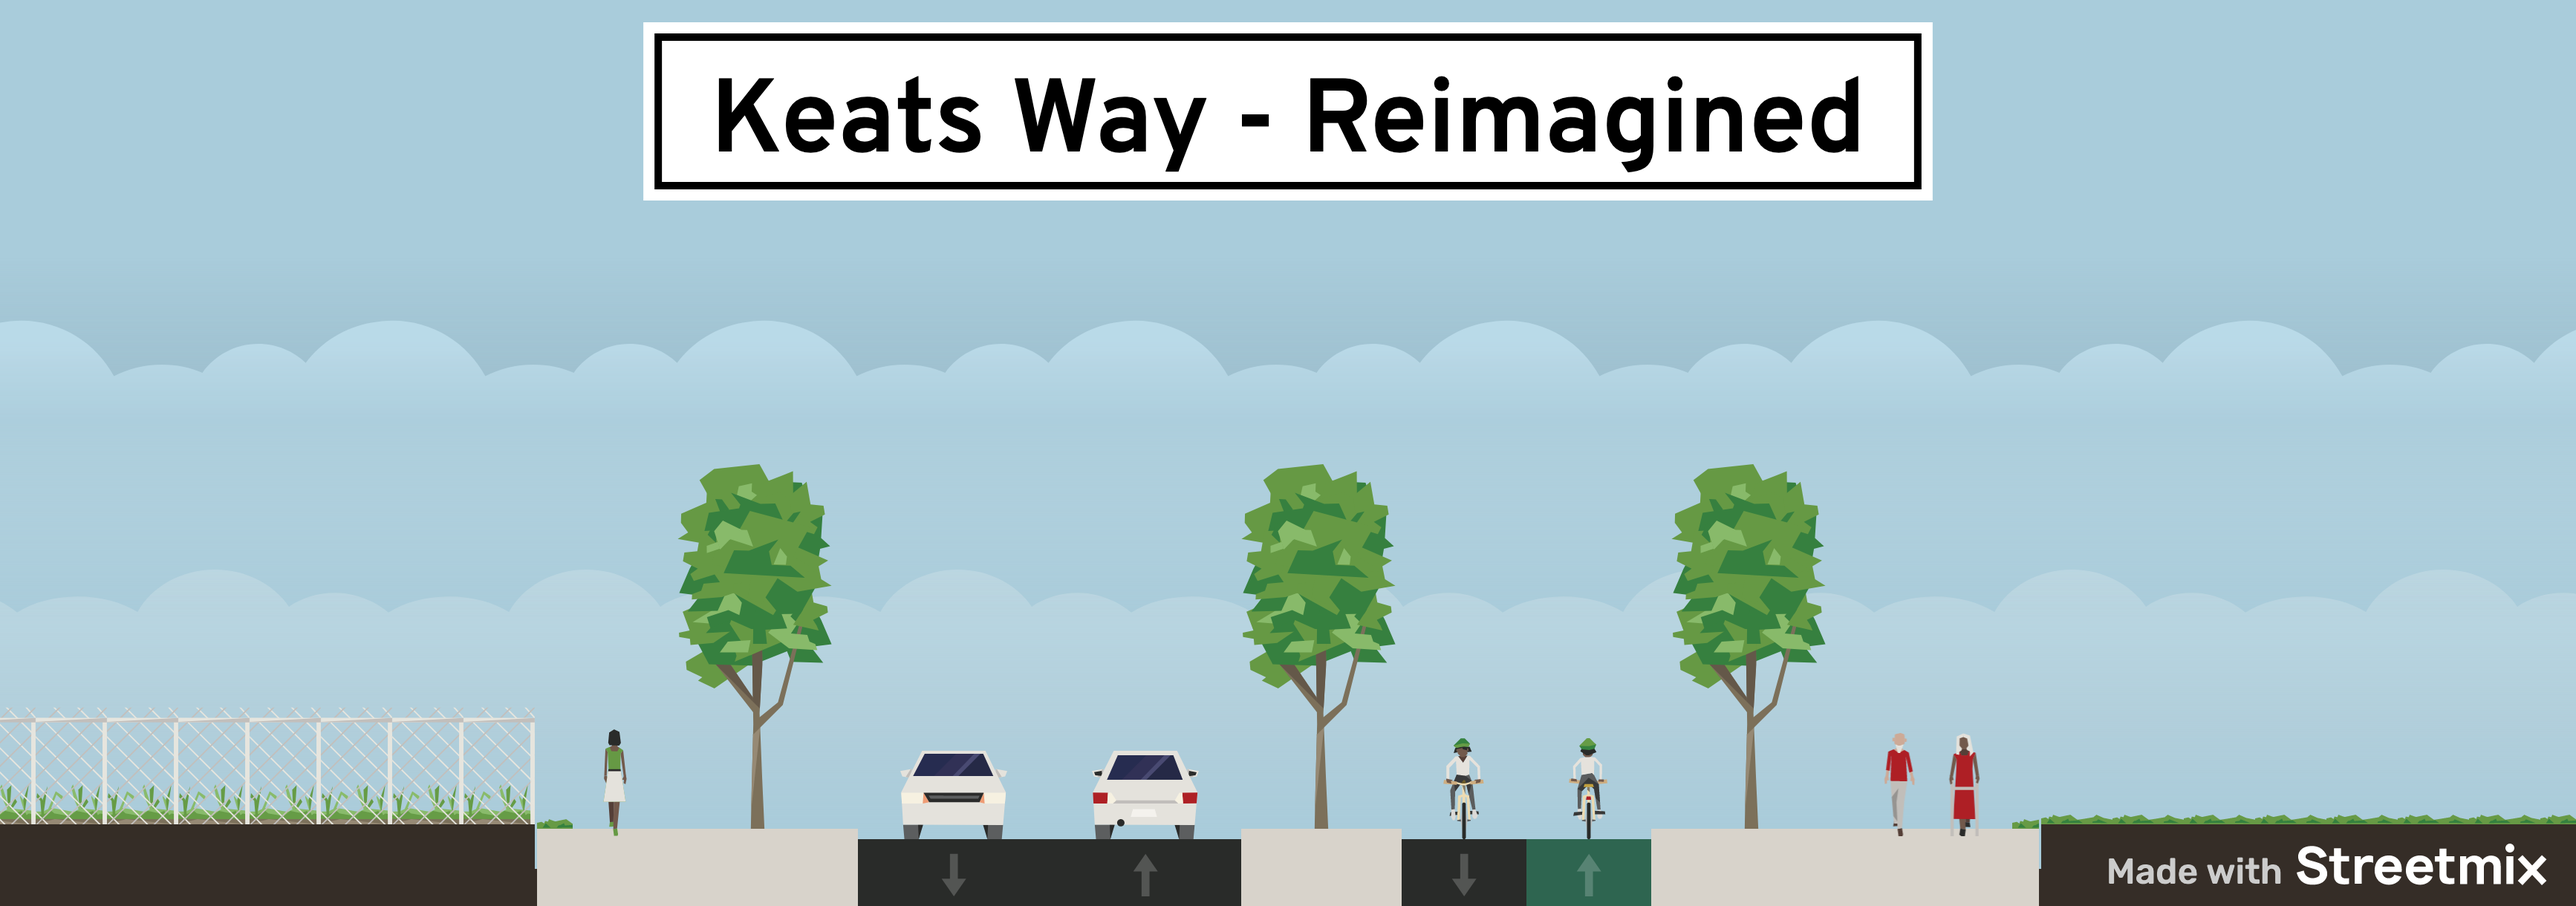
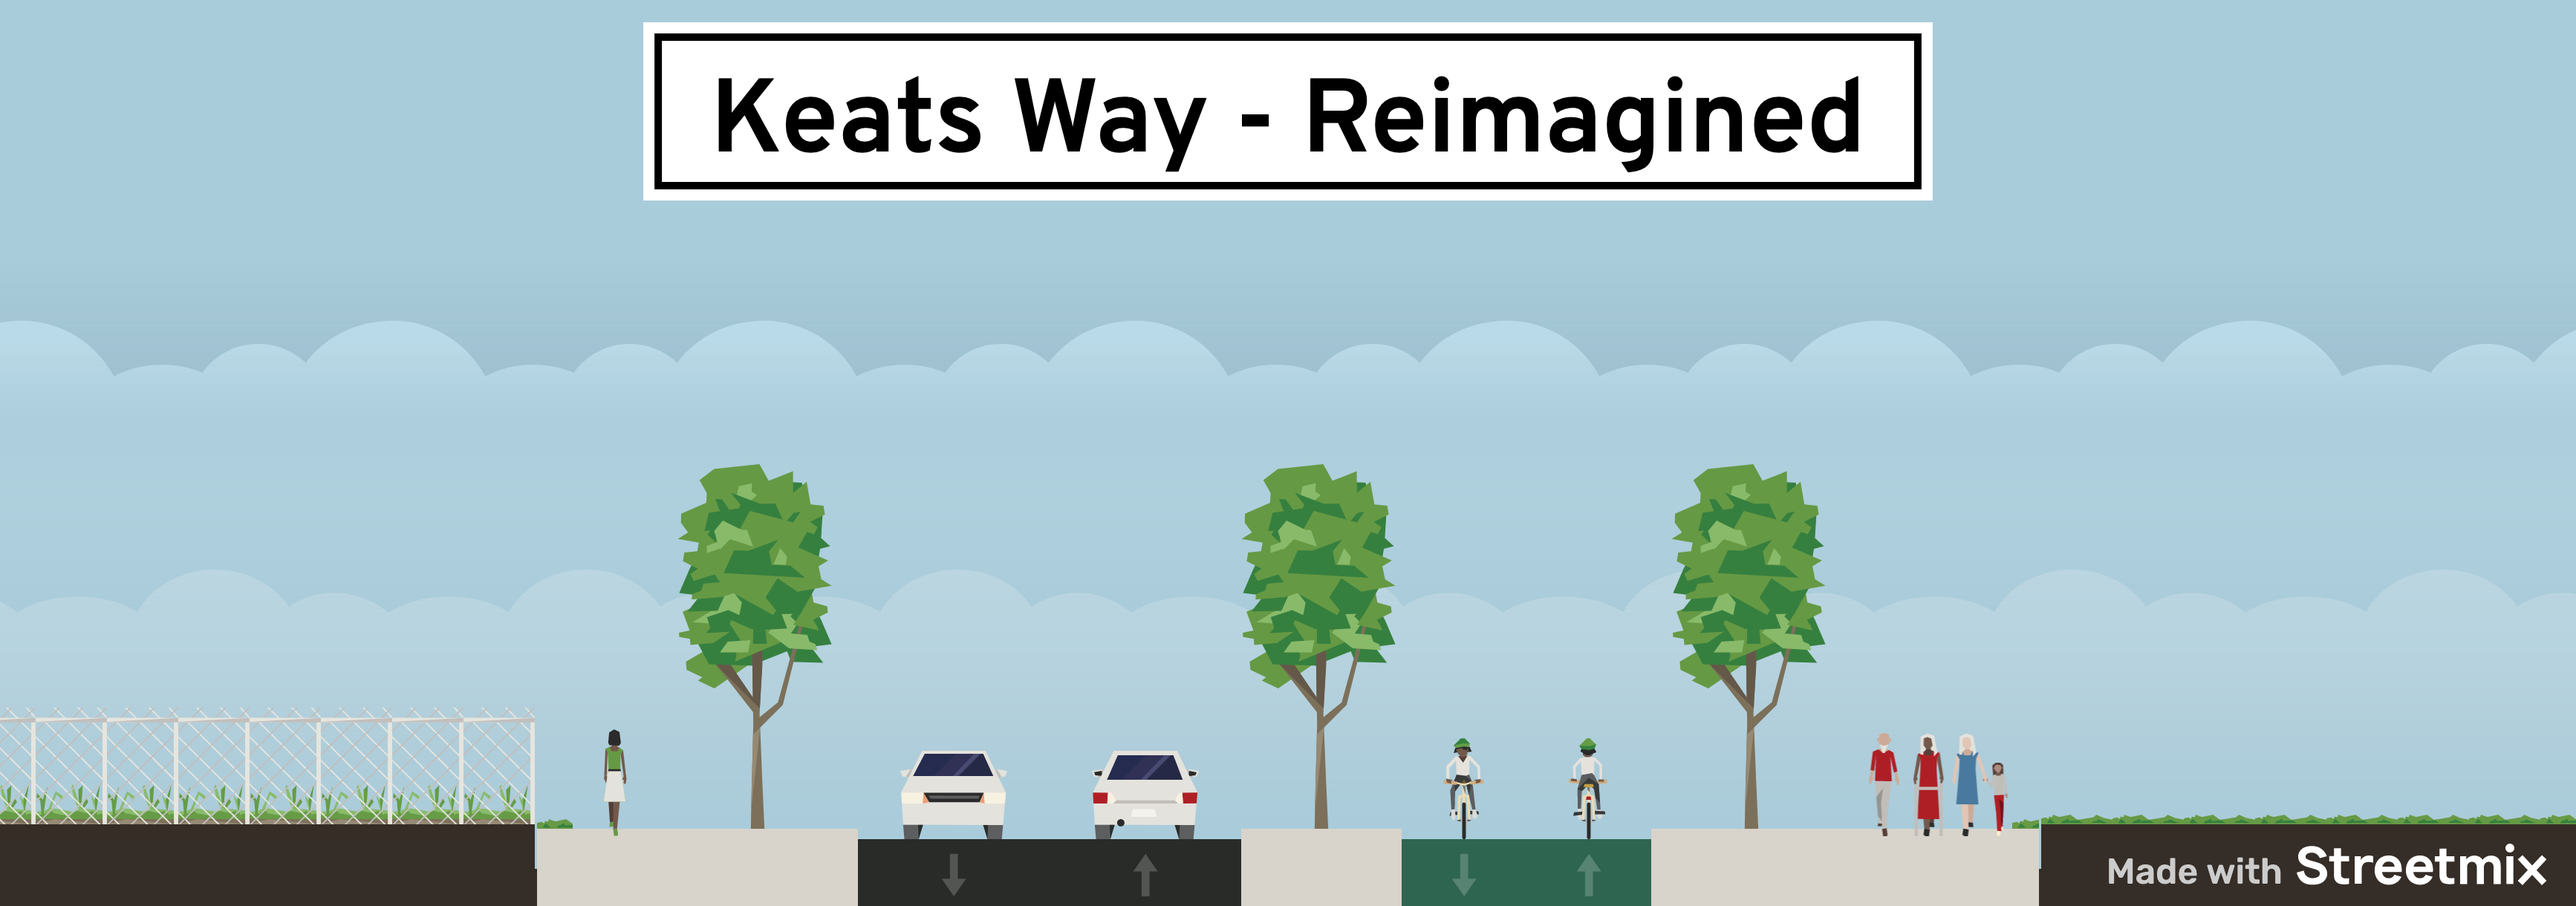
updates

Changed region(s): [[0.7163, 0.8098, 0.7785, 0.9344], [0.5294, 0.9033, 0.5917, 1.0]]

diff --git a/index.html b/index.html
@@ -38,7 +38,7 @@
       href="https://fonts.googleapis.com/css2?family=Roboto+Slab&display=swap"
       rel="stylesheet"
     />
-    <title>I Hate Keats Way</title>
+    <title>Re-Image Keats Way</title>
 
     <style>
       body {
@@ -85,8 +85,11 @@
       <div class="row">
         <div class="col-md">
           <h1 class="text-center m-5 pt-5 font-xl accent-font">
-            I 😡 Keats Way
+            Re-Imagine Keats Way
           </h1>
+          <h3 class="text-center m-1 pt-1 font-sm accent-font">
+            I 😡 Keats Way 
+          </h3>
         </div>
       </div>
 
@@ -160,7 +163,7 @@
         <div class="col-md">
           <img class="img-fluid rounded-8" src="img/keats-way-median.png" />
           <p class="font-md">
-            Current layout of Keats Way west of Erbsville Waterloo, Ontario
+            Possible layout of Keats Way west with median
           </p>
         </div>
       </div>
@@ -234,12 +237,7 @@
         <div class="col-sm">
           <img class="img-fluid rounded-8" src="img/keats-way-reimagined.png" />
           <p class="font-md">
-            Note: this design uses 3M wide lanes, as recomended in the
-            <a
-              href="https://www.waterloo.ca/en/government/resources/Documents/Cityadministration/TransportationMasterPlan/Transportation-Master-Plan---Appendix-D.pdf"
-              >City of Waterloo Transportation Master Plan</a
-            >
-            - 3.2.2 Traffic Calming Measures
+            Proposed layout of Keats Way, an inviting pedestrian & cycling thoroughfare
           </p>
         </div>
       </div>
